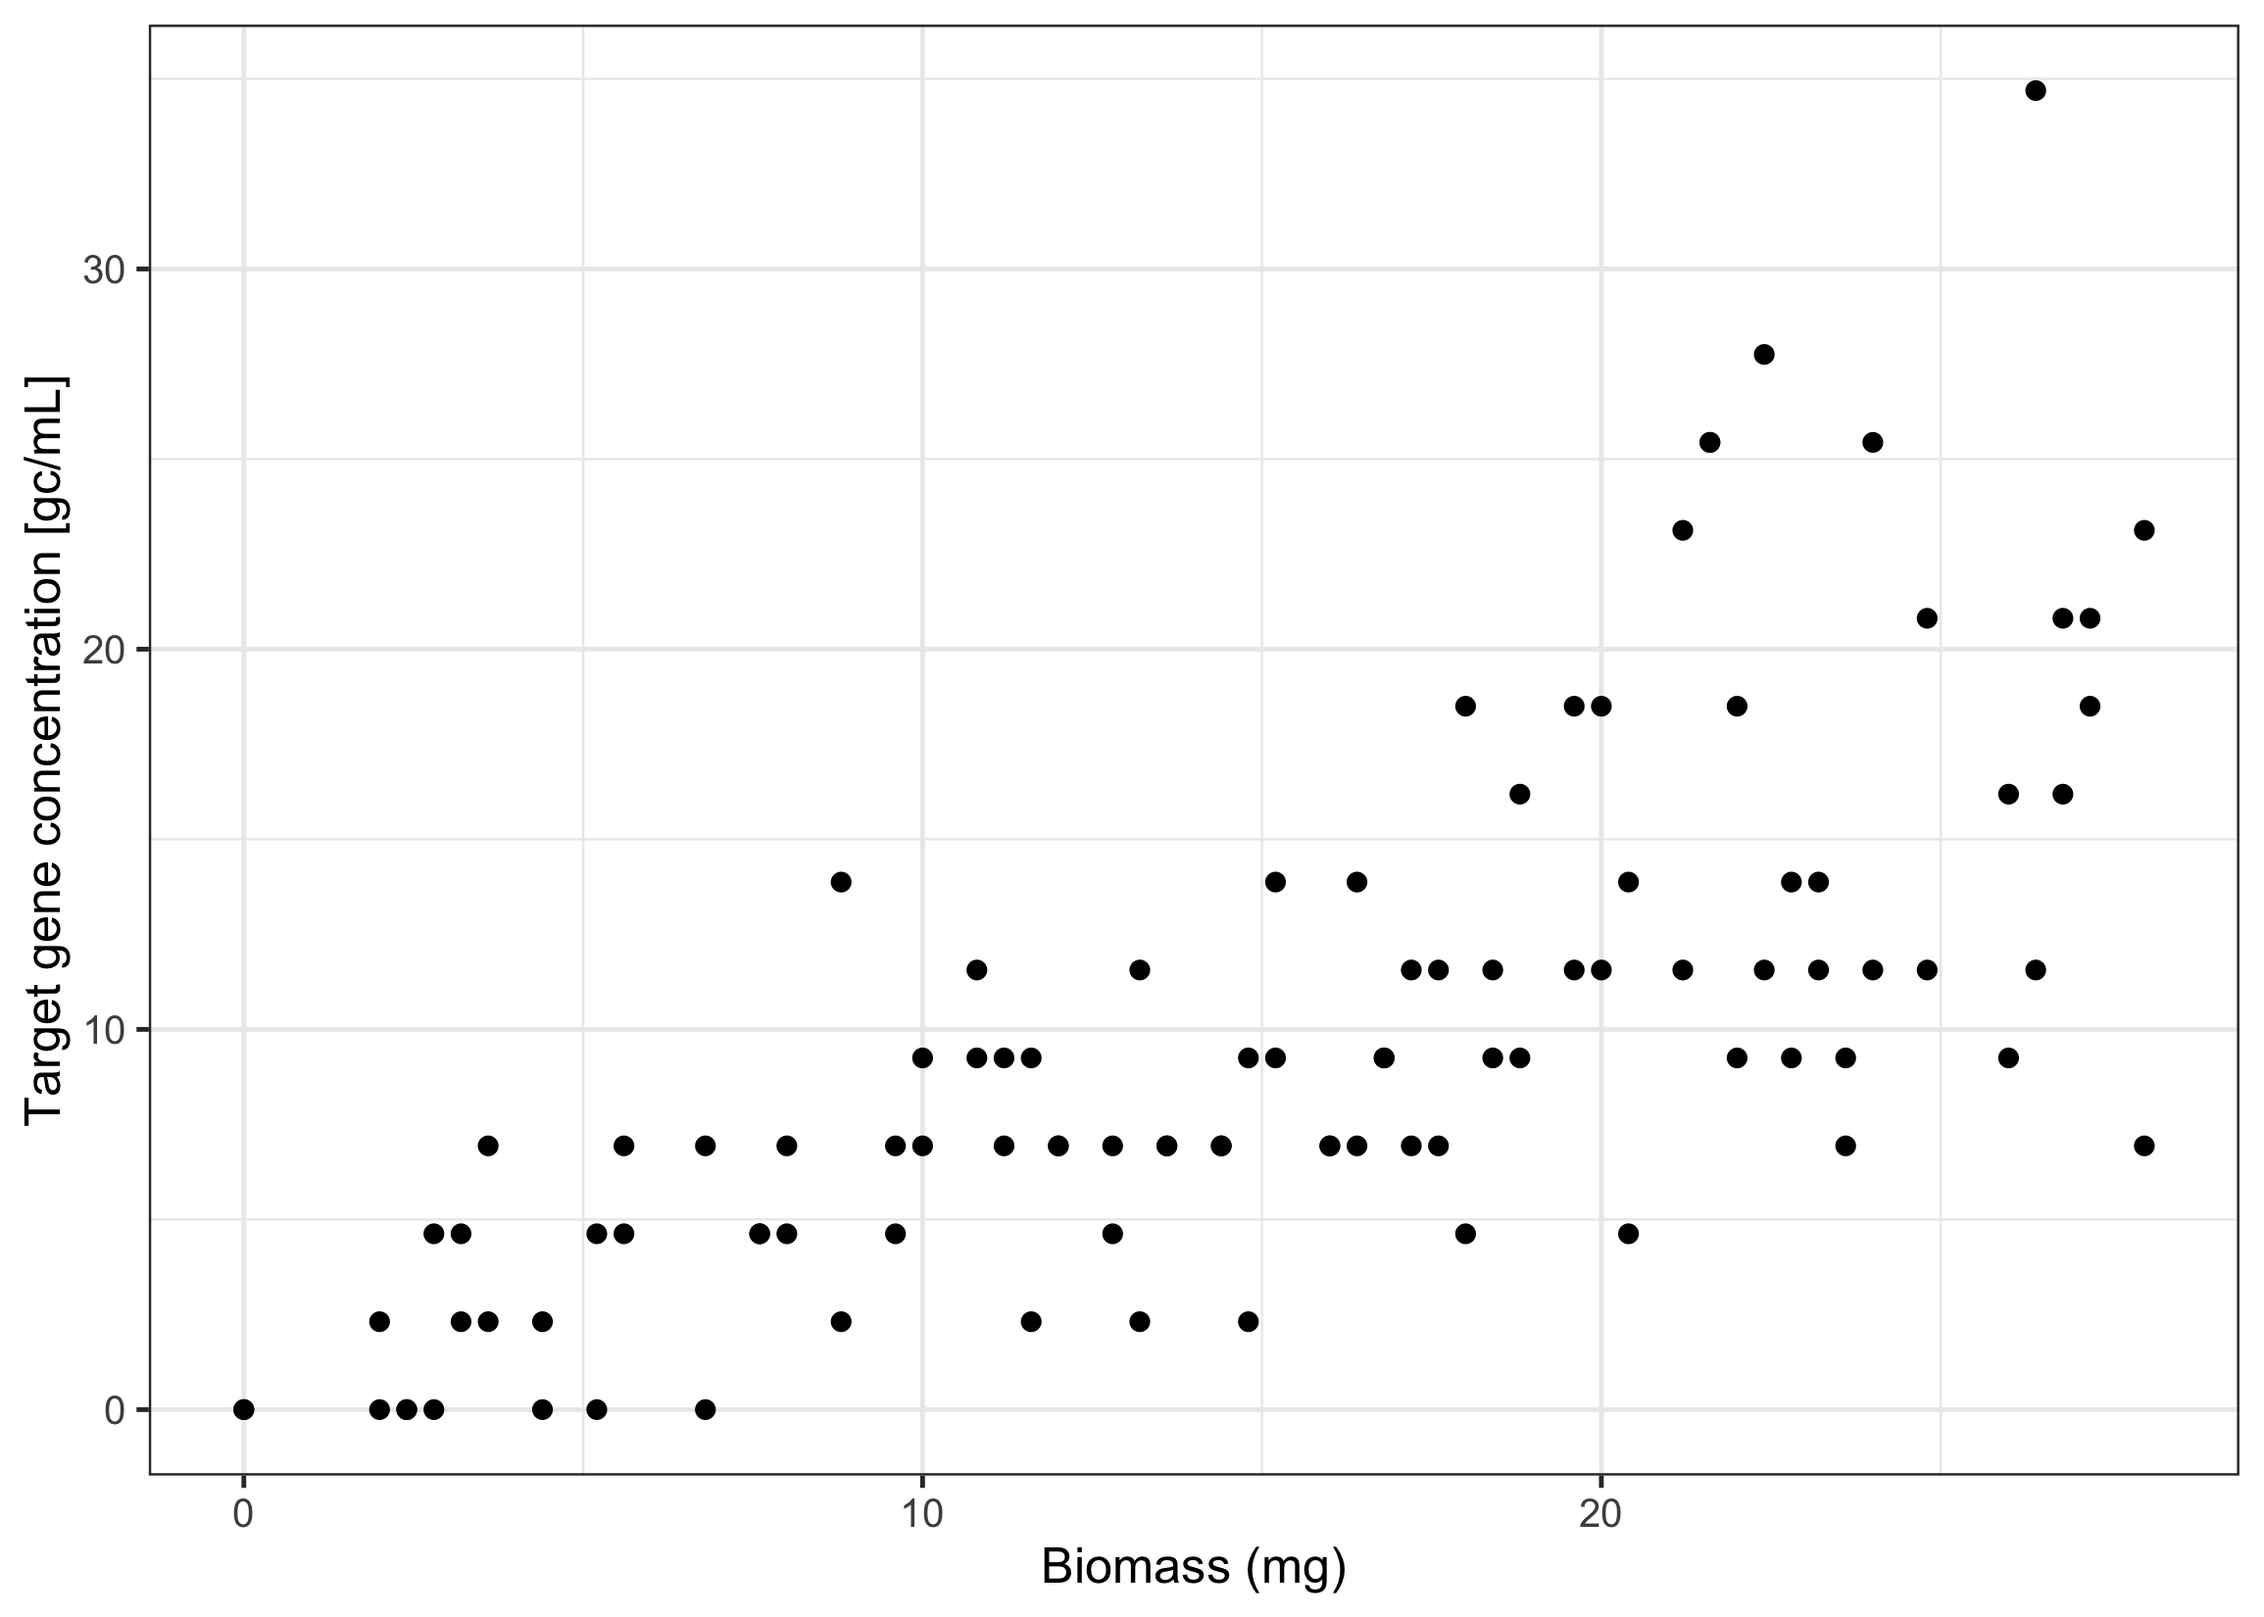
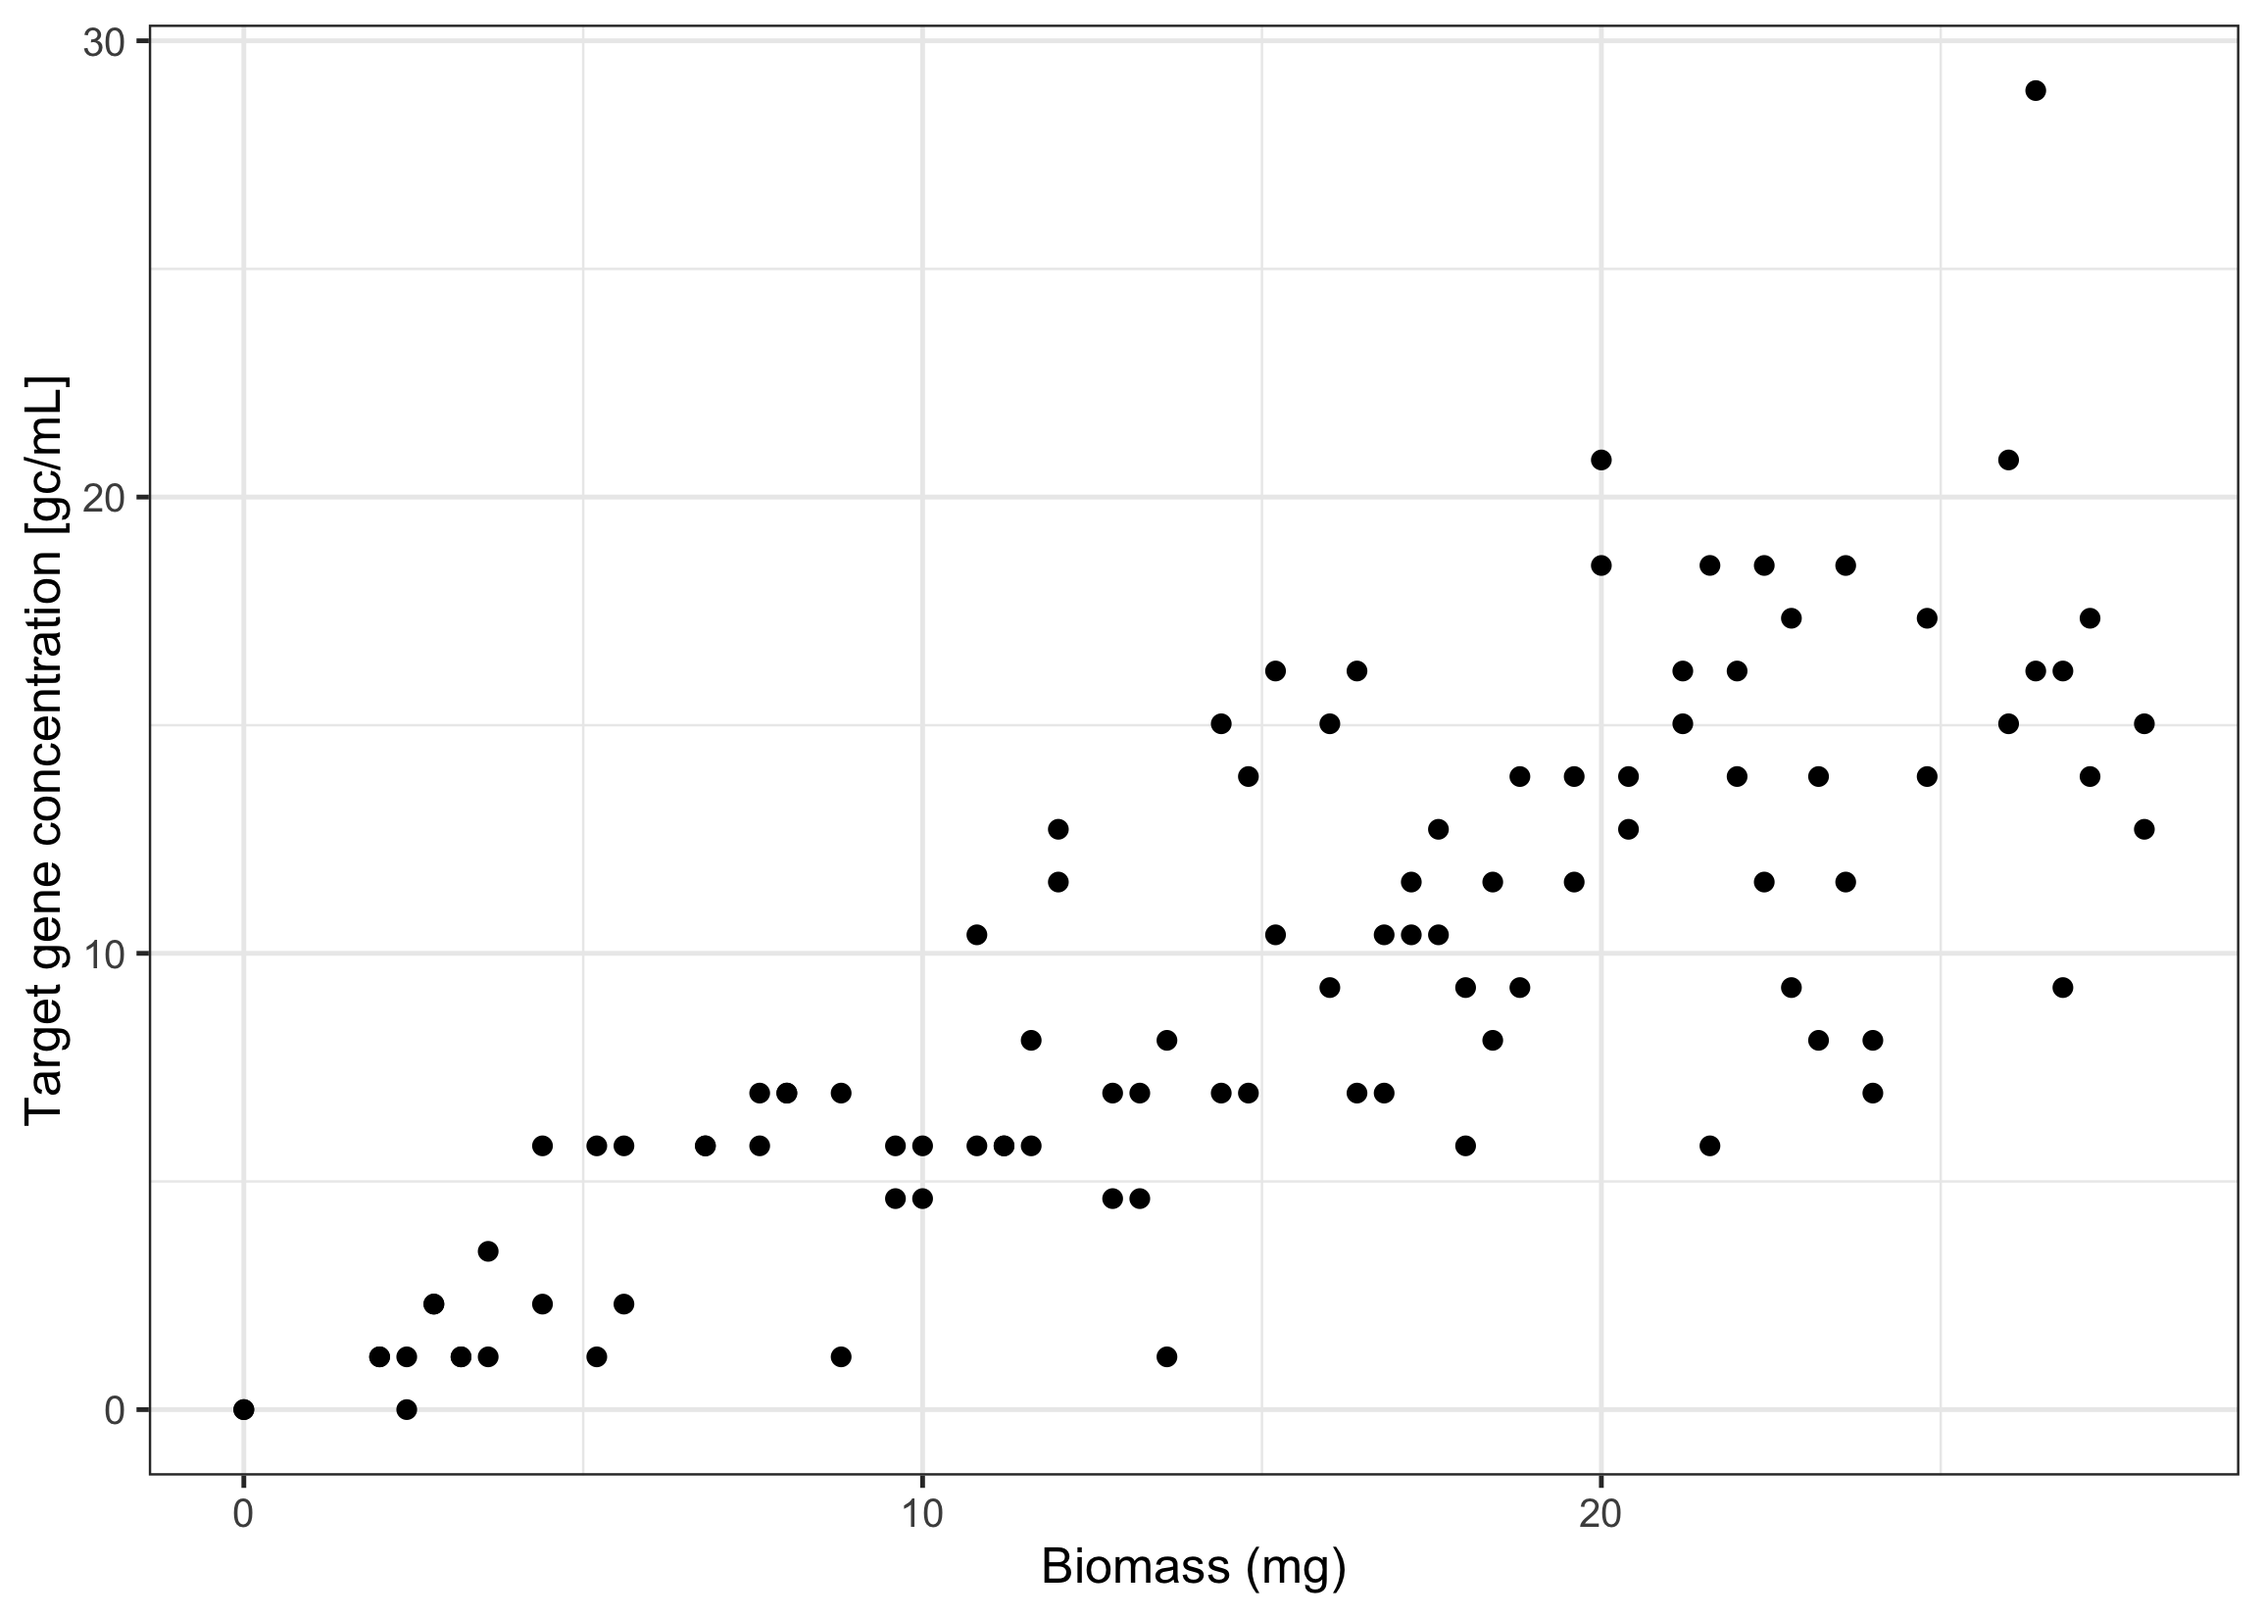
Update vignette

diff --git a/README.md b/README.md
@@ -109,29 +109,44 @@ model of the measurement noise. In our simulated data, we assumed a dPCR
 assay with the following parameters:
 
 - total number of partitions: 25’000
-- concentration conversion factor (gc per partition for one
-  concentration unit in original sample): 1.73e-5
+- concentration conversion factor : 1.73e-5 (gc/partition for 1
+  concentration unit in original sample)
 - pre-PCR coefficient of variation: 10%
 
-The helper function `noise_dPCR()` allows us to specify such a dPCR
-assay with suitable parameters:
+In our model, we will assume that we don’t know the details of the dPCR
+assay. We therefore specify uncertain priors for the assay
+characteristics using the helper function `noise_dPCR()`:
 
 ``` r
 noise_model <- noise_dPCR(
-          total_partitions_prior_mu = 25000, # there are 25000 partitions
-          total_partitions_prior_sigma = 0, # fix the number of partitions
-          volume_scaled_prior_mu = 1.73e-5, # the conversion factor
-          volume_scaled_prior_sigma = 0, # fix the conversion factor
-          prePCR_noise_type = "lognormal" # we assume that pre-PCR noise is log-normally distributed
+          max_partitions_prior_lower = 10000, # partition number of chip between 10'000 and 30'000
+          max_partitions_prior_upper = 30000,
+          partition_loss_mean_prior_lower = 0.05, # expected share of invalid partitions between 5% and 30%
+          partition_loss_mean_prior_upper = 0.3,
+          partition_loss_variation_prior_lower = 0.1, # broad prior on variation of share of invalid partitions
+          partition_loss_variation_prior_upper = 1,
+          partition_loss_max = 0.5, # maximum share of invalid partitions is 50%
+          volume_scaled_prior_mu = 1e-5, # broad prior for the concentration conversion factor
+          volume_scaled_prior_sigma = 4e-5,
+          prePCR_noise_type = "lognormal", # we assume that pre-PCR noise is log-normally distributed
         )
 ```
 
-Note that in this example, by setting the standard deviation (sigma) of
-the priors to 0, we fix the parameters to their true values. In
-practice, the exact number of partitions or the conversion factor may be
-uncertain, which you can express by providing a prior with positive
-standard deviation. The parameter value will then be estimated jointly
-from the data.
+To summarize, we have made the following assumptions:
+
+- we don’t know what chip was used, but expect it to have between 10’000
+  and 30’000 partitions
+- the average share of invalid partitions per dPCR run could be
+  somewhere between 5% and 30%
+- we don’t know how much the share of invalid partitions varies between
+  dPCR runs, so we use a broad prior for it
+- we assume that PCR runs with more than 50% invalid partitions are
+  discarded during quality control
+- we think that the conversion factor is on the order of magnitude of
+  1e-5 but we use a broad prior for it
+
+Using these priors specified in `noise_dPCR()`, the true values of these
+parameters will be estimated jointly from the data.
 
 Once we have a suitable noise model, we can run a linear regression
 using `dPCRfit`:
@@ -146,67 +161,70 @@ fitted_model <- dPCRfit(
           id_col = "sample_id", # name of the column with the sample id
           replicate_col = "replicate_id", # name of the column with the biological replicate id
           concentration_col = "concentration", # name of the column with the concentration measurements
+          n_averaged_col = "n_technical_reps" # name of the column with the number of technical replicates per sample
         ),
-        noise = noise_model # the dPCR noise model we defined above
+        noise = noise_model, # the dPCR noise model we defined above
+        nondetect = nondetect_dPCR() # also model non-detects from dPCR
       )
+#> Initializing chains via pathfinder...
 #> Running MCMC with 4 parallel chains...
 #> 
 #> Chain 1 Iteration:    1 / 2000 [  0%]  (Warmup) 
 #> Chain 2 Iteration:    1 / 2000 [  0%]  (Warmup) 
 #> Chain 3 Iteration:    1 / 2000 [  0%]  (Warmup) 
 #> Chain 4 Iteration:    1 / 2000 [  0%]  (Warmup) 
-#> Chain 3 Iteration:  200 / 2000 [ 10%]  (Warmup) 
 #> Chain 1 Iteration:  200 / 2000 [ 10%]  (Warmup) 
-#> Chain 4 Iteration:  200 / 2000 [ 10%]  (Warmup) 
-#> Chain 3 Iteration:  400 / 2000 [ 20%]  (Warmup) 
 #> Chain 1 Iteration:  400 / 2000 [ 20%]  (Warmup) 
 #> Chain 2 Iteration:  200 / 2000 [ 10%]  (Warmup) 
-#> Chain 4 Iteration:  400 / 2000 [ 20%]  (Warmup) 
+#> Chain 3 Iteration:  200 / 2000 [ 10%]  (Warmup) 
 #> Chain 1 Iteration:  600 / 2000 [ 30%]  (Warmup) 
-#> Chain 3 Iteration:  600 / 2000 [ 30%]  (Warmup) 
-#> Chain 4 Iteration:  600 / 2000 [ 30%]  (Warmup) 
 #> Chain 2 Iteration:  400 / 2000 [ 20%]  (Warmup) 
+#> Chain 3 Iteration:  400 / 2000 [ 20%]  (Warmup) 
 #> Chain 1 Iteration:  800 / 2000 [ 40%]  (Warmup) 
-#> Chain 3 Iteration:  800 / 2000 [ 40%]  (Warmup) 
-#> Chain 4 Iteration:  800 / 2000 [ 40%]  (Warmup) 
 #> Chain 2 Iteration:  600 / 2000 [ 30%]  (Warmup) 
 #> Chain 1 Iteration: 1000 / 2000 [ 50%]  (Warmup) 
 #> Chain 1 Iteration: 1001 / 2000 [ 50%]  (Sampling) 
-#> Chain 3 Iteration: 1000 / 2000 [ 50%]  (Warmup) 
-#> Chain 3 Iteration: 1001 / 2000 [ 50%]  (Sampling) 
-#> Chain 4 Iteration: 1000 / 2000 [ 50%]  (Warmup) 
-#> Chain 4 Iteration: 1001 / 2000 [ 50%]  (Sampling) 
 #> Chain 2 Iteration:  800 / 2000 [ 40%]  (Warmup) 
-#> Chain 1 Iteration: 1200 / 2000 [ 60%]  (Sampling) 
-#> Chain 3 Iteration: 1200 / 2000 [ 60%]  (Sampling) 
-#> Chain 1 Iteration: 1400 / 2000 [ 70%]  (Sampling) 
+#> Chain 3 Iteration:  600 / 2000 [ 30%]  (Warmup) 
 #> Chain 2 Iteration: 1000 / 2000 [ 50%]  (Warmup) 
 #> Chain 2 Iteration: 1001 / 2000 [ 50%]  (Sampling) 
-#> Chain 3 Iteration: 1400 / 2000 [ 70%]  (Sampling) 
-#> Chain 4 Iteration: 1200 / 2000 [ 60%]  (Sampling) 
-#> Chain 1 Iteration: 1600 / 2000 [ 80%]  (Sampling) 
-#> Chain 3 Iteration: 1600 / 2000 [ 80%]  (Sampling) 
-#> Chain 4 Iteration: 1400 / 2000 [ 70%]  (Sampling) 
+#> Chain 1 Iteration: 1200 / 2000 [ 60%]  (Sampling) 
+#> Chain 3 Iteration:  800 / 2000 [ 40%]  (Warmup) 
+#> Chain 4 Iteration:  200 / 2000 [ 10%]  (Warmup) 
+#> Chain 1 Iteration: 1400 / 2000 [ 70%]  (Sampling) 
 #> Chain 2 Iteration: 1200 / 2000 [ 60%]  (Sampling) 
-#> Chain 1 Iteration: 1800 / 2000 [ 90%]  (Sampling) 
-#> Chain 3 Iteration: 1800 / 2000 [ 90%]  (Sampling) 
-#> Chain 1 Iteration: 2000 / 2000 [100%]  (Sampling) 
-#> Chain 1 finished in 8.4 seconds.
-#> Chain 3 Iteration: 2000 / 2000 [100%]  (Sampling) 
-#> Chain 4 Iteration: 1600 / 2000 [ 80%]  (Sampling) 
-#> Chain 3 finished in 8.3 seconds.
+#> Chain 3 Iteration: 1000 / 2000 [ 50%]  (Warmup) 
+#> Chain 3 Iteration: 1001 / 2000 [ 50%]  (Sampling) 
+#> Chain 4 Iteration:  400 / 2000 [ 20%]  (Warmup) 
+#> Chain 1 Iteration: 1600 / 2000 [ 80%]  (Sampling) 
 #> Chain 2 Iteration: 1400 / 2000 [ 70%]  (Sampling) 
-#> Chain 4 Iteration: 1800 / 2000 [ 90%]  (Sampling) 
+#> Chain 3 Iteration: 1200 / 2000 [ 60%]  (Sampling) 
+#> Chain 4 Iteration:  600 / 2000 [ 30%]  (Warmup) 
+#> Chain 1 Iteration: 1800 / 2000 [ 90%]  (Sampling) 
+#> Chain 4 Iteration:  800 / 2000 [ 40%]  (Warmup) 
 #> Chain 2 Iteration: 1600 / 2000 [ 80%]  (Sampling) 
-#> Chain 4 Iteration: 2000 / 2000 [100%]  (Sampling) 
-#> Chain 4 finished in 10.2 seconds.
+#> Chain 3 Iteration: 1400 / 2000 [ 70%]  (Sampling) 
+#> Chain 1 Iteration: 2000 / 2000 [100%]  (Sampling) 
+#> Chain 1 finished in 14.9 seconds.
+#> Chain 4 Iteration: 1000 / 2000 [ 50%]  (Warmup) 
+#> Chain 4 Iteration: 1001 / 2000 [ 50%]  (Sampling) 
 #> Chain 2 Iteration: 1800 / 2000 [ 90%]  (Sampling) 
+#> Chain 3 Iteration: 1600 / 2000 [ 80%]  (Sampling) 
+#> Chain 4 Iteration: 1200 / 2000 [ 60%]  (Sampling) 
 #> Chain 2 Iteration: 2000 / 2000 [100%]  (Sampling) 
-#> Chain 2 finished in 11.8 seconds.
+#> Chain 2 finished in 17.3 seconds.
+#> Chain 3 Iteration: 1800 / 2000 [ 90%]  (Sampling) 
+#> Chain 4 Iteration: 1400 / 2000 [ 70%]  (Sampling) 
+#> Chain 3 Iteration: 2000 / 2000 [100%]  (Sampling) 
+#> Chain 3 finished in 18.9 seconds.
+#> Chain 4 Iteration: 1600 / 2000 [ 80%]  (Sampling) 
+#> Chain 4 Iteration: 1800 / 2000 [ 90%]  (Sampling) 
+#> Chain 4 Iteration: 2000 / 2000 [100%]  (Sampling) 
+#> Chain 4 finished in 21.7 seconds.
 #> 
 #> All 4 chains finished successfully.
-#> Mean chain execution time: 9.7 seconds.
-#> Total execution time: 11.9 seconds.
+#> Mean chain execution time: 18.2 seconds.
+#> Total execution time: 21.9 seconds.
 ```
 
 ## Results
@@ -221,9 +239,9 @@ summary(fitted_model)
 #> Number of observations: 100 
 #> 
 #> Coefficients:
-#> variable     mean    median  sd      mad     q5       q95     rhat   ess_bulk  ess_tail
-#> (Intercept)  0.3826  0.3029  0.3172  0.2921  0.02174  1.0142  1.002  2623      1882    
-#> biomass      0.6219  0.6224  0.0382  0.0373  0.55763  0.6853  1.001  4863      2922    
+#> variable     mean    median  sd       mad      q5       q95     rhat   ess_bulk  ess_tail
+#> (Intercept)  0.2275  0.1695  0.20080  0.17050  0.01418  0.6310  1.000  3644      2170    
+#> biomass      0.6140  0.6138  0.02931  0.02954  0.56512  0.6608  1.001  6547      3204    
 #> 
 #> Fitted via MCMC using 4 chains with each:
 #> 1000 warm-up iterations
